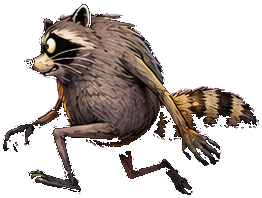
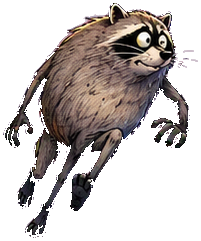
Jimothy: the original Jimothy no longer hops BACKWARDS. His two sideways paintings were in each other's slots
Stephen, release day: "the original skin I think jumps backwards". Proven in the running game (test hook, hop right, shoot
the frame): hero/run-r.png faces LEFT (nose left, tail right) and hero/run-l.png faces right, and a full pack shows run-r on
every right hop with no flip. 42 of 45 characters use run-l = mirror(run-r) and cannot be wrong; only the hero, Market Day
and Scoutmaster have their own left-run painting. Fixed at the FILE level as the facing note in heroPose demands (never a
code flip): the two files swapped, no pixel changed, both paintings stay in the game. Atlas repacked: the sheets are byte
identical, only the map's two entries swapped. ARTV 56. jimothy-check 60/60, atlas-identity zero differing bytes,
first-visit 24 requests. After: right hop faces right, left hop sprints left.

Claude-Session: https://claude.ai/code/session_01S9L77GC2Lgd6XnbPF3XzMM

diff --git a/satellites/stream-hop/assets/atlas/map.js b/satellites/stream-hop/assets/atlas/map.js
@@ -1,2 +1,2 @@
 /* generated by scripts/pack-atlas.py, never edit by hand. frames: key -> [sheet, x, y, w, h] */
-window.JIMOTHY_ATLAS={"frames":{"fx/burst-gold":["play-1",1696,244,277,227],"fx/cell-1-1":["fx-later-0",1618,543,256,119],"fx/cell-1-2":["fx-later-0",1077,543,263,123],"fx/cell-1-3":["fx-later-0",1342,543,274,122],"fx/cell-1-4":["fx-later-0",800,543,275,123],"fx/cell-2-1":["fx-later-0",271,543,254,189],"fx/cell-2-2":["fx-later-0",527,543,271,178],"fx/cell-2-3":["fx-later-0",2,543,267,189],"fx/cell-2-4":["fx-later-0",1620,292,277,189],"fx/cell-3-1":["fx-later-0",556,292,277,227],"fx/cell-3-2":["fx-later-0",1380,292,238,220],"fx/cell-3-3":["fx-later-0",1114,292,264,224],"fx/cell-3-4":["fx-later-0",835,292,277,227],"fx/cell-4-1":["fx-later-0",304,2,284,278],"fx/cell-4-2":["fx-later-0",892,2,277,273],"fx/cell-4-3":["fx-later-0",2,292,274,249],"fx/cell-4-4":["fx-later-0",278,292,276,245],"fx/glow-bloom":["play-1",974,479,238,220],"fx/splash-dust":["play-3",1103,174,256,119],"fx/splash-water":["play-3",526,174,263,123],"fx/star-pop":["play-2",656,803,271,178],"fx/wx-fog":["fx-later-0",1171,2,300,267],"fx/wx-leaves":["fx-later-0",1473,2,300,253],"fx/wx-rain":["fx-later-0",2,2,300,288],"fx/wx-rays":["fx-later-0",590,2,300,277],"hero/cheer":["play-0",1275,635,241,245],"hero/coffee":["play-1",1422,2,252,235],"hero/crouch":["play-3",2,2,251,170],"hero/dash-run":["play-2",735,412,294,193],"hero/dizzy":["play-1",1646,705,263,207],"hero/eat":["play-1",495,244,257,230],"hero/flee":["play-2",808,2,296,203],"hero/idle":["play-0",791,635,216,247],"hero/ko":["play-2",277,2,287,205],"hero/land":["play-2",1306,412,247,192],"hero/leap":["play-1",248,244,245,231],"hero/magnet":["play-1",2,244,244,233],"hero/run-l":["play-0",1840,635,201,241],"hero/run-r":["play-2",1259,210,262,198],"hero/run-r2":["hero-later-0",2,2,261,198],"hero/scared":["play-1",765,479,207,222],"hero/shield":["play-0",1009,635,264,246],"hero/sit":["play-0",2,635,186,261],"hero/splash":["play-1",1676,2,227,234],"hero/umbrella":["play-0",532,635,257,252],"how/cap":["menu-0",1818,486,180,169],"how/coffee":["menu-0",1570,486,100,180],"how/map":["menu-0",2,726,180,149],"how/pad":["menu-0",938,486,170,180],"how/paws":["menu-0",1672,486,144,176],"how/tap":["menu-0",1444,486,124,180],"how/traffic":["menu-0",1282,486,160,180],"how/water":["menu-0",184,726,180,106],"how/wilt":["menu-0",1110,486,170,180],"powers/hud_boots":["play-2",2,610,200,191],"powers/hud_coffee":["play-0",321,2,308,320],"powers/hud_crosswalk":["play-2",1822,2,189,200],"powers/hud_espresso":["powers-later-0",2,2,200,198],"powers/hud_lamp":["play-2",855,210,200,199],"powers/hud_salmon":["powers-later-0",204,2,200,193],"powers/hud_snacks":["play-0",1196,2,320,313],"powers/hud_umbrella":["play-0",2,2,317,320],"powers/hud_vest":["play-2",1428,2,199,200],"powers/power_boots":["play-2",1057,210,200,199],"powers/power_coffee":["play-0",935,2,259,320],"powers/power_crosswalk":["play-2",372,210,139,200],"powers/power_espresso":["play-2",2,210,185,200],"powers/power_lamp":["play-2",189,210,181,200],"powers/power_salmon":["play-3",324,174,200,138],"powers/power_snacks":["play-0",324,324,320,304],"powers/power_umbrella":["play-0",631,2,302,320],"powers/power_vest":["play-2",1629,2,191,200],"sprites/coin-cap":["play-1",811,705,250,209],"sprites/deco-manhole":["play-2",1031,412,273,193],"sprites/deco-salmon":["play-2",1704,610,269,182],"sprites/egg-ferrytoken":["sprites-later-0",1135,2,210,193],"sprites/egg-fremontdog":["sprites-later-0",465,2,150,210],"sprites/egg-gumwall":["sprites-later-0",1559,2,210,171],"sprites/egg-lenin":["sprites-later-0",617,2,136,210],"sprites/egg-needle":["sprites-later-0",755,2,112,210],"sprites/egg-orcacharm":["sprites-later-0",1771,2,210,164],"sprites/egg-rachelpig":["sprites-later-0",1347,2,210,175],"sprites/egg-tallboy":["sprites-later-0",294,2,169,210],"sprites/fx-ripple":["play-2",273,412,256,196],"sprites/haz-crowdive":["play-0",646,324,310,297],"sprites/haz-dog":["play-2",344,803,310,178],"sprites/haz-heronwade":["play-1",1063,705,310,208],"sprites/haz-otterswim":["play-3",1361,174,310,100],"sprites/haz-pigeons":["play-2",1291,803,282,173],"sprites/haz-raccoon":["play-3",791,174,310,121],"sprites/haz-wave":["sprites-later-0",869,2,264,209],"sprites/mv-bot":["play-0",2,324,320,309],"sprites/mv-ducks":["play-3",2,174,320,141],"sprites/mv-espresso":["play-1",754,244,320,228],"sprites/mv-leashdog":["play-3",1204,2,320,146],"sprites/mv-salmon":["play-3",1526,2,320,143],"sprites/mv-walker":["play-0",1518,2,320,313],"sprites/obs-barrier":["play-1",263,479,255,224],"sprites/obs-can":["play-2",1801,412,229,192],"sprites/obs-cone":["play-2",531,412,202,196],"sprites/obs-goose":["play-0",1466,324,271,277],"sprites/obs-rat":["play-3",255,2,256,169],"sprites/obs-trashbags":["play-1",1536,479,273,219],"sprites/pad-boxraft":["play-1",268,705,249,213],"sprites/pad-crate":["play-1",2,479,259,224],"sprites/pad-dumpster":["play-1",1375,705,269,208],"sprites/pad-lifering":["play-1",520,479,243,224],"sprites/pad-log":["play-2",2,2,273,206],"sprites/pad-pallet":["play-1",2,705,264,214],"sprites/pad2-barge":["play-2",204,610,320,190],"sprites/pad2-dock":["play-1",1214,479,320,219],"sprites/pad2-duckboat":["play-2",1106,2,320,200],"sprites/pad2-kayak":["play-0",1518,635,320,243],"sprites/pad2-otterback":["play-2",1090,610,320,184],"sprites/pad2-paddleboard":["play-1",1076,244,320,228],"sprites/pad2-ring":["play-1",1104,2,316,235],"sprites/pad2-salmonback":["play-2",768,610,320,185],"sprites/pickup-fries":["play-2",1555,412,244,192],"sprites/pickup-treasure":["play-2",2,412,269,196],"sprites/planter-barrel":["play-2",526,610,240,188],"sprites/planter-concrete":["play-2",566,2,240,204],"sprites/planter-ferns":["play-2",1575,803,240,171],"sprites/prop-coffeecart":["play-2",1412,610,290,184],"sprites/prop-produce":["play-1",519,705,290,212],"sprites/prop-recyclebin":["play-0",1174,324,290,288],"sprites/prop-roadworks":["sprites-later-0",2,2,290,223],"sprites/prop-steam":["play-0",958,324,214,290],"sprites/prop-wave":["sprites-later-0",2,227,290,123],"sprites/rail-lightrail":["play-3",513,2,360,156],"sprites/rail-monorail":["play-2",929,803,360,173],"sprites/sweeper-body":["play-1",2,2,1100,240],"sprites/sweeper-edge":["play-3",2,317,1000,95],"sprites/veh-cyclist":["play-0",190,635,340,253],"sprites/veh-foodtruck":["play-2",1523,210,340,197],"sprites/veh-scooter":["play-0",1739,324,263,265],"sprites/veh-sedan":["play-3",1673,174,340,99],"sprites/veh-skater":["play-1",1398,244,296,228],"sprites/veh-taxi":["play-3",875,2,327,152],"sprites/veh-trolleybus":["play-2",2,803,340,178],"sprites/veh-van":["play-2",513,210,340,199],"ui/button-round":["ui-later-0",1549,264,219,218],"ui/cell-1-1":["ui-later-0",686,514,213,164],"ui/cell-1-2":["ui-later-0",462,514,222,164],"ui/cell-1-3":["ui-later-0",901,514,221,157],"ui/cell-1-4":["ui-later-0",1558,514,207,144],"ui/cell-2-1":["ui-later-0",468,732,213,129],"ui/cell-2-2":["ui-later-0",244,732,222,129],"ui/cell-2-3":["ui-later-0",1124,514,221,147],"ui/cell-2-4":["ui-later-0",1347,514,209,147],"ui/cell-3-1":["ui-later-0",1111,2,200,251],"ui/cell-3-2":["ui-later-0",2,264,222,248],"ui/cell-3-3":["ui-later-0",226,264,221,248],"ui/cell-3-4":["ui-later-0",1313,2,197,251],"ui/cell-4-1":["ui-later-0",640,264,207,246],"ui/cell-4-2":["ui-later-0",1512,2,222,249],"ui/cell-4-3":["ui-later-0",1736,2,221,249],"ui/cell-4-4":["ui-later-0",372,2,160,260],"ui/cell-5-1":["ui-later-0",199,2,171,260],"ui/cell-5-2":["ui-later-0",1770,264,222,216],"ui/cell-5-3":["ui-later-0",2,2,195,260],"ui/cell-5-4":["ui-later-0",534,2,158,260],"ui/cell-6-1":["ui-later-0",449,264,189,247],"ui/cell-6-2":["ui-later-0",2,514,222,216],"ui/cell-6-3":["ui-later-0",694,2,221,252],"ui/cell-6-4":["ui-later-0",917,2,192,252],"ui/glyph-adventure":["menu-0",474,244,233,240],"ui/glyph-back":["ui-later-0",226,514,234,196],"ui/glyph-calendar":["ui-later-0",849,264,235,240],"ui/glyph-cap":["ui-later-0",1328,264,219,221],"ui/glyph-daily":["menu-0",2,486,240,238],"ui/glyph-endless":["menu-0",486,2,239,240],"ui/glyph-feedback":["menu-0",1202,2,234,240],"ui/glyph-games":["menu-0",2,2,240,240],"ui/glyph-gift":["menu-0",1438,2,234,240],"ui/glyph-install":["menu-0",709,244,233,240],"ui/glyph-landmark":["menu-0",944,244,233,240],"ui/glyph-music":["menu-0",1674,2,234,240],"ui/glyph-padlock":["menu-0",2,244,234,240],"ui/glyph-pizza":["menu-0",1179,244,233,240],"ui/glyph-raccoon":["menu-0",244,2,240,240],"ui/glyph-rush":["menu-0",1649,244,195,240],"ui/glyph-settings":["menu-0",727,2,236,240],"ui/glyph-share":["menu-0",728,486,208,225],"ui/glyph-sunbeam":["menu-0",1414,244,233,240],"ui/glyph-support":["menu-0",965,2,235,240],"ui/glyph-wilted":["menu-0",238,244,234,240],"ui/glyph-zen":["menu-0",486,486,240,233],"ui/medal-best":["menu-0",1846,244,184,240],"ui/plaque-black":["ui-later-0",683,732,240,124],"ui/plaque-blue":["ui-later-0",1767,514,240,137],"ui/plaque-green":["ui-later-0",2,732,240,133],"ui/plaque-knob":["ui-later-0",1167,732,240,111],"ui/plaque-red":["ui-later-0",925,732,240,124],"ui/plaque-square":["ui-later-0",1086,264,240,224],"ui/strip-caps":["ui-later-0",1409,732,240,73],"ui/sup-heart":["menu-0",244,486,240,236]},"sheets":{"fx-later-0":{"boot":false,"h":734,"n":20,"w":1899},"hero-later-0":{"boot":false,"h":202,"n":1,"w":265},"menu-0":{"boot":true,"h":877,"n":30,"w":2032},"play-0":{"boot":true,"h":898,"n":21,"w":2043},"play-1":{"boot":true,"h":921,"n":25,"w":1975},"play-2":{"boot":true,"h":983,"n":37,"w":2032},"play-3":{"boot":true,"h":414,"n":14,"w":2015},"powers-later-0":{"boot":false,"h":202,"n":2,"w":406},"sprites-later-0":{"boot":false,"h":352,"n":11,"w":1983},"ui-later-0":{"boot":false,"h":867,"n":35,"w":2009}}};
+window.JIMOTHY_ATLAS={"frames":{"fx/burst-gold":["play-1",1696,244,277,227],"fx/cell-1-1":["fx-later-0",1618,543,256,119],"fx/cell-1-2":["fx-later-0",1077,543,263,123],"fx/cell-1-3":["fx-later-0",1342,543,274,122],"fx/cell-1-4":["fx-later-0",800,543,275,123],"fx/cell-2-1":["fx-later-0",271,543,254,189],"fx/cell-2-2":["fx-later-0",527,543,271,178],"fx/cell-2-3":["fx-later-0",2,543,267,189],"fx/cell-2-4":["fx-later-0",1620,292,277,189],"fx/cell-3-1":["fx-later-0",556,292,277,227],"fx/cell-3-2":["fx-later-0",1380,292,238,220],"fx/cell-3-3":["fx-later-0",1114,292,264,224],"fx/cell-3-4":["fx-later-0",835,292,277,227],"fx/cell-4-1":["fx-later-0",304,2,284,278],"fx/cell-4-2":["fx-later-0",892,2,277,273],"fx/cell-4-3":["fx-later-0",2,292,274,249],"fx/cell-4-4":["fx-later-0",278,292,276,245],"fx/glow-bloom":["play-1",974,479,238,220],"fx/splash-dust":["play-3",1103,174,256,119],"fx/splash-water":["play-3",526,174,263,123],"fx/star-pop":["play-2",656,803,271,178],"fx/wx-fog":["fx-later-0",1171,2,300,267],"fx/wx-leaves":["fx-later-0",1473,2,300,253],"fx/wx-rain":["fx-later-0",2,2,300,288],"fx/wx-rays":["fx-later-0",590,2,300,277],"hero/cheer":["play-0",1275,635,241,245],"hero/coffee":["play-1",1422,2,252,235],"hero/crouch":["play-3",2,2,251,170],"hero/dash-run":["play-2",735,412,294,193],"hero/dizzy":["play-1",1646,705,263,207],"hero/eat":["play-1",495,244,257,230],"hero/flee":["play-2",808,2,296,203],"hero/idle":["play-0",791,635,216,247],"hero/ko":["play-2",277,2,287,205],"hero/land":["play-2",1306,412,247,192],"hero/leap":["play-1",248,244,245,231],"hero/magnet":["play-1",2,244,244,233],"hero/run-l":["play-2",1259,210,262,198],"hero/run-r":["play-0",1840,635,201,241],"hero/run-r2":["hero-later-0",2,2,261,198],"hero/scared":["play-1",765,479,207,222],"hero/shield":["play-0",1009,635,264,246],"hero/sit":["play-0",2,635,186,261],"hero/splash":["play-1",1676,2,227,234],"hero/umbrella":["play-0",532,635,257,252],"how/cap":["menu-0",1818,486,180,169],"how/coffee":["menu-0",1570,486,100,180],"how/map":["menu-0",2,726,180,149],"how/pad":["menu-0",938,486,170,180],"how/paws":["menu-0",1672,486,144,176],"how/tap":["menu-0",1444,486,124,180],"how/traffic":["menu-0",1282,486,160,180],"how/water":["menu-0",184,726,180,106],"how/wilt":["menu-0",1110,486,170,180],"powers/hud_boots":["play-2",2,610,200,191],"powers/hud_coffee":["play-0",321,2,308,320],"powers/hud_crosswalk":["play-2",1822,2,189,200],"powers/hud_espresso":["powers-later-0",2,2,200,198],"powers/hud_lamp":["play-2",855,210,200,199],"powers/hud_salmon":["powers-later-0",204,2,200,193],"powers/hud_snacks":["play-0",1196,2,320,313],"powers/hud_umbrella":["play-0",2,2,317,320],"powers/hud_vest":["play-2",1428,2,199,200],"powers/power_boots":["play-2",1057,210,200,199],"powers/power_coffee":["play-0",935,2,259,320],"powers/power_crosswalk":["play-2",372,210,139,200],"powers/power_espresso":["play-2",2,210,185,200],"powers/power_lamp":["play-2",189,210,181,200],"powers/power_salmon":["play-3",324,174,200,138],"powers/power_snacks":["play-0",324,324,320,304],"powers/power_umbrella":["play-0",631,2,302,320],"powers/power_vest":["play-2",1629,2,191,200],"sprites/coin-cap":["play-1",811,705,250,209],"sprites/deco-manhole":["play-2",1031,412,273,193],"sprites/deco-salmon":["play-2",1704,610,269,182],"sprites/egg-ferrytoken":["sprites-later-0",1135,2,210,193],"sprites/egg-fremontdog":["sprites-later-0",465,2,150,210],"sprites/egg-gumwall":["sprites-later-0",1559,2,210,171],"sprites/egg-lenin":["sprites-later-0",617,2,136,210],"sprites/egg-needle":["sprites-later-0",755,2,112,210],"sprites/egg-orcacharm":["sprites-later-0",1771,2,210,164],"sprites/egg-rachelpig":["sprites-later-0",1347,2,210,175],"sprites/egg-tallboy":["sprites-later-0",294,2,169,210],"sprites/fx-ripple":["play-2",273,412,256,196],"sprites/haz-crowdive":["play-0",646,324,310,297],"sprites/haz-dog":["play-2",344,803,310,178],"sprites/haz-heronwade":["play-1",1063,705,310,208],"sprites/haz-otterswim":["play-3",1361,174,310,100],"sprites/haz-pigeons":["play-2",1291,803,282,173],"sprites/haz-raccoon":["play-3",791,174,310,121],"sprites/haz-wave":["sprites-later-0",869,2,264,209],"sprites/mv-bot":["play-0",2,324,320,309],"sprites/mv-ducks":["play-3",2,174,320,141],"sprites/mv-espresso":["play-1",754,244,320,228],"sprites/mv-leashdog":["play-3",1204,2,320,146],"sprites/mv-salmon":["play-3",1526,2,320,143],"sprites/mv-walker":["play-0",1518,2,320,313],"sprites/obs-barrier":["play-1",263,479,255,224],"sprites/obs-can":["play-2",1801,412,229,192],"sprites/obs-cone":["play-2",531,412,202,196],"sprites/obs-goose":["play-0",1466,324,271,277],"sprites/obs-rat":["play-3",255,2,256,169],"sprites/obs-trashbags":["play-1",1536,479,273,219],"sprites/pad-boxraft":["play-1",268,705,249,213],"sprites/pad-crate":["play-1",2,479,259,224],"sprites/pad-dumpster":["play-1",1375,705,269,208],"sprites/pad-lifering":["play-1",520,479,243,224],"sprites/pad-log":["play-2",2,2,273,206],"sprites/pad-pallet":["play-1",2,705,264,214],"sprites/pad2-barge":["play-2",204,610,320,190],"sprites/pad2-dock":["play-1",1214,479,320,219],"sprites/pad2-duckboat":["play-2",1106,2,320,200],"sprites/pad2-kayak":["play-0",1518,635,320,243],"sprites/pad2-otterback":["play-2",1090,610,320,184],"sprites/pad2-paddleboard":["play-1",1076,244,320,228],"sprites/pad2-ring":["play-1",1104,2,316,235],"sprites/pad2-salmonback":["play-2",768,610,320,185],"sprites/pickup-fries":["play-2",1555,412,244,192],"sprites/pickup-treasure":["play-2",2,412,269,196],"sprites/planter-barrel":["play-2",526,610,240,188],"sprites/planter-concrete":["play-2",566,2,240,204],"sprites/planter-ferns":["play-2",1575,803,240,171],"sprites/prop-coffeecart":["play-2",1412,610,290,184],"sprites/prop-produce":["play-1",519,705,290,212],"sprites/prop-recyclebin":["play-0",1174,324,290,288],"sprites/prop-roadworks":["sprites-later-0",2,2,290,223],"sprites/prop-steam":["play-0",958,324,214,290],"sprites/prop-wave":["sprites-later-0",2,227,290,123],"sprites/rail-lightrail":["play-3",513,2,360,156],"sprites/rail-monorail":["play-2",929,803,360,173],"sprites/sweeper-body":["play-1",2,2,1100,240],"sprites/sweeper-edge":["play-3",2,317,1000,95],"sprites/veh-cyclist":["play-0",190,635,340,253],"sprites/veh-foodtruck":["play-2",1523,210,340,197],"sprites/veh-scooter":["play-0",1739,324,263,265],"sprites/veh-sedan":["play-3",1673,174,340,99],"sprites/veh-skater":["play-1",1398,244,296,228],"sprites/veh-taxi":["play-3",875,2,327,152],"sprites/veh-trolleybus":["play-2",2,803,340,178],"sprites/veh-van":["play-2",513,210,340,199],"ui/button-round":["ui-later-0",1549,264,219,218],"ui/cell-1-1":["ui-later-0",686,514,213,164],"ui/cell-1-2":["ui-later-0",462,514,222,164],"ui/cell-1-3":["ui-later-0",901,514,221,157],"ui/cell-1-4":["ui-later-0",1558,514,207,144],"ui/cell-2-1":["ui-later-0",468,732,213,129],"ui/cell-2-2":["ui-later-0",244,732,222,129],"ui/cell-2-3":["ui-later-0",1124,514,221,147],"ui/cell-2-4":["ui-later-0",1347,514,209,147],"ui/cell-3-1":["ui-later-0",1111,2,200,251],"ui/cell-3-2":["ui-later-0",2,264,222,248],"ui/cell-3-3":["ui-later-0",226,264,221,248],"ui/cell-3-4":["ui-later-0",1313,2,197,251],"ui/cell-4-1":["ui-later-0",640,264,207,246],"ui/cell-4-2":["ui-later-0",1512,2,222,249],"ui/cell-4-3":["ui-later-0",1736,2,221,249],"ui/cell-4-4":["ui-later-0",372,2,160,260],"ui/cell-5-1":["ui-later-0",199,2,171,260],"ui/cell-5-2":["ui-later-0",1770,264,222,216],"ui/cell-5-3":["ui-later-0",2,2,195,260],"ui/cell-5-4":["ui-later-0",534,2,158,260],"ui/cell-6-1":["ui-later-0",449,264,189,247],"ui/cell-6-2":["ui-later-0",2,514,222,216],"ui/cell-6-3":["ui-later-0",694,2,221,252],"ui/cell-6-4":["ui-later-0",917,2,192,252],"ui/glyph-adventure":["menu-0",474,244,233,240],"ui/glyph-back":["ui-later-0",226,514,234,196],"ui/glyph-calendar":["ui-later-0",849,264,235,240],"ui/glyph-cap":["ui-later-0",1328,264,219,221],"ui/glyph-daily":["menu-0",2,486,240,238],"ui/glyph-endless":["menu-0",486,2,239,240],"ui/glyph-feedback":["menu-0",1202,2,234,240],"ui/glyph-games":["menu-0",2,2,240,240],"ui/glyph-gift":["menu-0",1438,2,234,240],"ui/glyph-install":["menu-0",709,244,233,240],"ui/glyph-landmark":["menu-0",944,244,233,240],"ui/glyph-music":["menu-0",1674,2,234,240],"ui/glyph-padlock":["menu-0",2,244,234,240],"ui/glyph-pizza":["menu-0",1179,244,233,240],"ui/glyph-raccoon":["menu-0",244,2,240,240],"ui/glyph-rush":["menu-0",1649,244,195,240],"ui/glyph-settings":["menu-0",727,2,236,240],"ui/glyph-share":["menu-0",728,486,208,225],"ui/glyph-sunbeam":["menu-0",1414,244,233,240],"ui/glyph-support":["menu-0",965,2,235,240],"ui/glyph-wilted":["menu-0",238,244,234,240],"ui/glyph-zen":["menu-0",486,486,240,233],"ui/medal-best":["menu-0",1846,244,184,240],"ui/plaque-black":["ui-later-0",683,732,240,124],"ui/plaque-blue":["ui-later-0",1767,514,240,137],"ui/plaque-green":["ui-later-0",2,732,240,133],"ui/plaque-knob":["ui-later-0",1167,732,240,111],"ui/plaque-red":["ui-later-0",925,732,240,124],"ui/plaque-square":["ui-later-0",1086,264,240,224],"ui/strip-caps":["ui-later-0",1409,732,240,73],"ui/sup-heart":["menu-0",244,486,240,236]},"sheets":{"fx-later-0":{"boot":false,"h":734,"n":20,"w":1899},"hero-later-0":{"boot":false,"h":202,"n":1,"w":265},"menu-0":{"boot":true,"h":877,"n":30,"w":2032},"play-0":{"boot":true,"h":898,"n":21,"w":2043},"play-1":{"boot":true,"h":921,"n":25,"w":1975},"play-2":{"boot":true,"h":983,"n":37,"w":2032},"play-3":{"boot":true,"h":414,"n":14,"w":2015},"powers-later-0":{"boot":false,"h":202,"n":2,"w":406},"sprites-later-0":{"boot":false,"h":352,"n":11,"w":1983},"ui-later-0":{"boot":false,"h":867,"n":35,"w":2009}}};

diff --git a/satellites/stream-hop/index.html b/satellites/stream-hop/index.html
@@ -13,7 +13,7 @@
 <link rel="preconnect" href="https://fonts.gstatic.com" crossorigin>
 <link href="https://fonts.googleapis.com/css2?family=Fredoka:wght@500;600;700&family=Nunito:wght@600;700;800&display=swap" rel="stylesheet">
 <link rel="manifest" href="manifest.webmanifest?v=29">
-<link rel="apple-touch-icon" href="assets/icons/jimothy-apple-180.png?a=55">
+<link rel="apple-touch-icon" href="assets/icons/jimothy-apple-180.png?a=56">
 <title>Jimothy Game: play the Seattle raccoon hopper free in your browser</title>
 <meta name="description" content="Meet Jumping Jimothy, Seattle's roundest and most beloved raccoon. Hop him across the rainy city to the greatest dumpster feast in town. Free to play in your browser.">
 <meta name="keywords" content="Jumping Jimothy, Jimothy, Jimothy the Jumping Nugget, Jimothy game, raccoon game, free browser game, Seattle raccoon, hopper, Sky Wolf Studio">
@@ -654,7 +654,7 @@ h2.sc-h{font-size:24px; color:var(--sage); font-weight:800; margin-bottom:4px}
 
   <!-- SPLASH (static ink-wash keyart front door — tap to enter. The old AI intro video is retired.) -->
   <div class="screen center on" id="s-splash" style="padding:0;background:#f2e7cf">
-    <img id="splash-img" src="assets/jimothy-hero.jpg?a=55" alt="Jimothy"
+    <img id="splash-img" src="assets/jimothy-hero.jpg?a=56" alt="Jimothy"
       style="position:absolute;inset:0;width:100%;height:100%;object-fit:contain;background:#f2e7cf">
     <div id="splash-tag">Jumping Jimothy</div>
     <div id="splash-hint">TAP TO START</div>
@@ -859,7 +859,7 @@ h2.sc-h{font-size:24px; color:var(--sage); font-weight:800; margin-bottom:4px}
   <!-- SUPPORT THE STUDIO -->
   <div class="screen" id="s-support"><div class="pad">
     <h2 class="sc-h">Support the Studio</h2>
-    <img id="sup-photo" src="assets/family.jpg?a=55" alt="The Sky Wolf family reading together with their dog and cats"
+    <img id="sup-photo" src="assets/family.jpg?a=56" alt="The Sky Wolf family reading together with their dog and cats"
       style="display:block;width:100%;max-width:430px;margin:0 auto 12px;border-radius:16px;border:1px solid var(--line)">
     <div class="sup-card">
       Sky Wolf Studio is a solo studio. It is me, Stephen, making every game in
@@ -873,7 +873,7 @@ h2.sc-h{font-size:24px; color:var(--sage); font-weight:800; margin-bottom:4px}
       <div style="margin-top:8px; color:var(--muted); font-size:12px">The pack is those costumes and the music, and that is all it ever is. New costumes are earned by showing up: one every seventh day in a row. Critters, colours, badges and landmarks stay earn-by-play for everyone, and supporting never buys progress. Thank you for being here at all.</div>
     </div>
     <div style="position:relative;max-width:430px;margin:0 auto 14px">
-      <img id="sup-banner" src="assets/ui/sup-banner.jpg?a=55" alt="The seven costumed Jimothys under the marquee" style="display:block;width:100%;border-radius:14px">
+      <img id="sup-banner" src="assets/ui/sup-banner.jpg?a=56" alt="The seven costumed Jimothys under the marquee" style="display:block;width:100%;border-radius:14px">
       <div style="position:absolute;top:7%;left:50%;transform:translateX(-50%);font-family:'Fredoka';font-weight:700;letter-spacing:.13em;color:#4a3a1c;font-size:14px;white-space:nowrap">THE SUPPORTER PACK</div>
     </div>
     <!-- ⛔ Signing up and being asked for money are two different conversations. The account
@@ -1080,7 +1080,7 @@ h2.sc-h{font-size:24px; color:var(--sage); font-weight:800; margin-bottom:4px}
 </div></div>
 
 <!-- the art atlas map (Lane D): its ?a= is ARTV, test/jimothy-check.js holds them equal -->
-<script src="assets/atlas/map.js?a=55"></script>
+<script src="assets/atlas/map.js?a=56"></script>
 <script>
 (function(){
 "use strict";
@@ -1453,7 +1453,7 @@ var IMGS={}, ART_ON=true;
    IGNORES in-place updates (it kept shipping the beheaded goose and the
    pre-demagenta purple sprites long after they were fixed in the repo).
    Bump ARTV whenever ANY file under assets/ changes in place. */
-var ARTV='55';
+var ARTV='56';
 /* ⛔ THE 429 LOCKOUT (2026-09-15): a first visit asks for over a hundred images at once, and the host's CDN
    edge answers most of them 429 with an empty body, then refuses the visitor for minutes. A failed image is
    tried again with a growing wait (2, 4, 8, 16, 32, 60 s), each try at its own URL so the browser cannot
